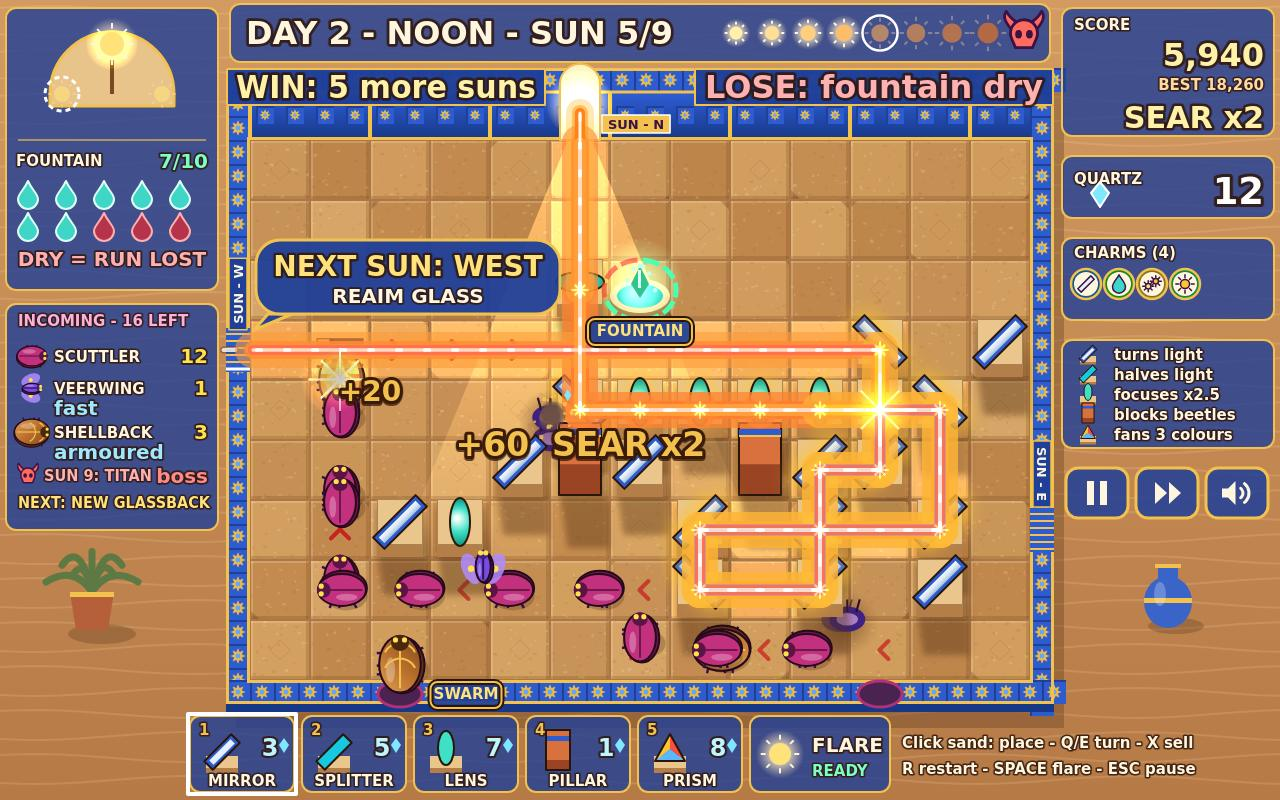
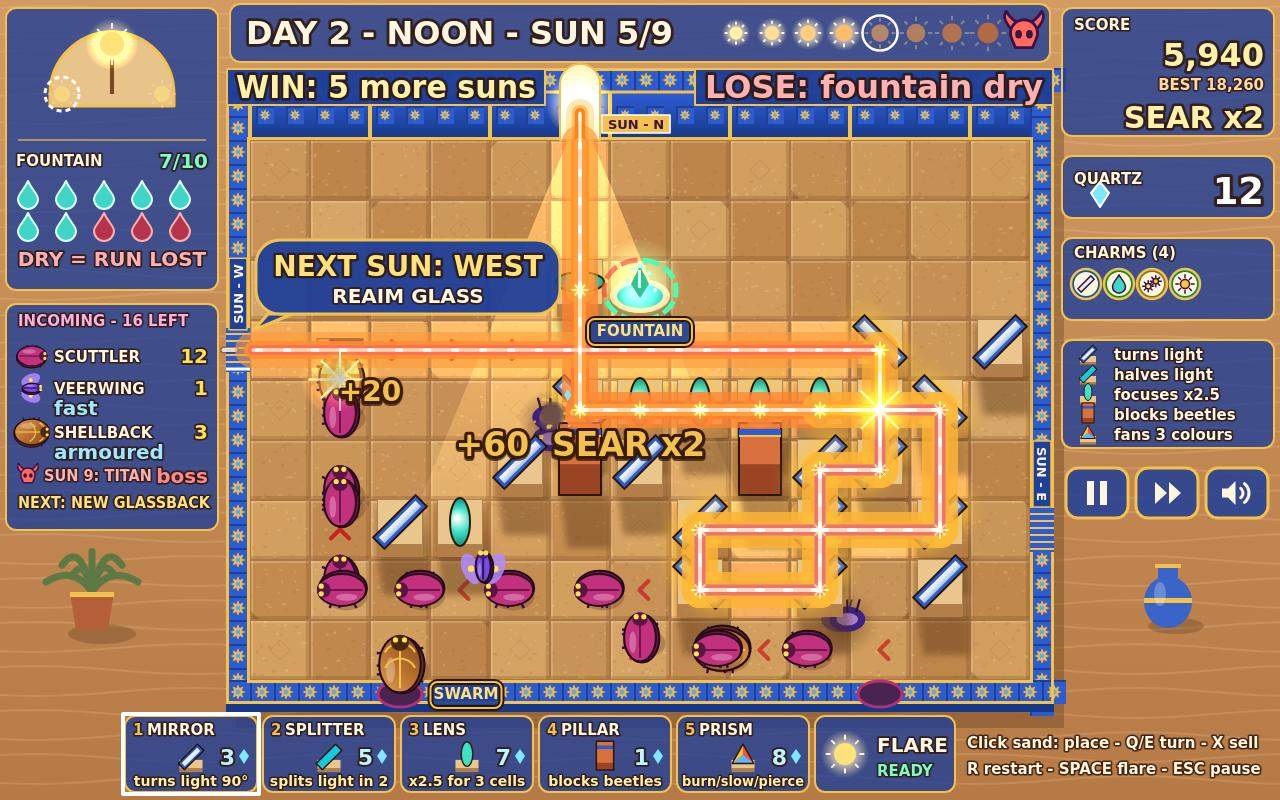
Build bar: each card shows hotkey, name, cost and a one-line effect (lens from this run's beam mods); legend kept

Changed region(s): [[0.0938, 0.875, 1.0, 1.0]]

diff --git a/game/src/render/hud.js b/game/src/render/hud.js
@@ -27,7 +27,7 @@ const INCOMING_H = 226;
 const LEFT_X = 6;
 const RIGHT_X = VIEW_W - PANEL_W - 6;
 
-const HOTBAR = { y: 716, w: 104, h: 76, gap: 8 };
+const HOTBAR = { y: 716, w: 132, h: 76, gap: 6 };
 const HOTBAR_X = 640 - (PIECE_ORDER.length * (HOTBAR.w + HOTBAR.gap) + 150 + 190) / 2;
 
 /** The pause, speed and sound buttons under the right panels: icons only (Esc / F / M on the keyboard). */
@@ -432,7 +432,7 @@ export function hudTextBoxes() {
     { text: 'sun bar', x0: top + 4, y0: 4, x1: top + BOARD_W + WALL * 2 - 4, y1: 62 },
     { text: 'win/lose banner', x0: top, y0: 68, x1: top + BOARD_W + WALL * 2, y1: 106 },
     { text: 'right panels and buttons', x0: RIGHT_X, y0: 8, x1: RIGHT_X + PANEL_W, y1: HUD_BUTTONS[0].y + HUD_BUTTONS[0].h },
-    { text: 'hotbar and keys', x0: HOTBAR_X, y0: HOTBAR.y, x1: 1200, y1: HOTBAR.y + HOTBAR.h },
+    { text: 'hotbar and keys', x0: HOTBAR_X, y0: HOTBAR.y, x1: 1270, y1: HOTBAR.y + HOTBAR.h },
   ];
 }
 
@@ -661,6 +661,16 @@ function drawHudButtons(ctx, ui) {
   }
 }
 
+/** A build card's one-line effect, true to beams.js (the lens with this run's focus and reach). */
+function cardEffect(run, type) {
+  const mods = beamModsFor(run.boons);
+  if (type === 'mirror') return ['turns light 90°', 'turns light'];
+  if (type === 'splitter') return ['splits light in two', 'splits light in 2', 'splits in two'];
+  if (type === 'lens') return [`x${mods.lensMult} for ${mods.lensReach} cells`, `focus x${mods.lensMult}`];
+  if (type === 'pillar') return ['blocks beetles', 'blocks'];
+  return ['burn, slow, pierce', 'burn/slow/pierce', 'fans 3 colours'];
+}
+
 function drawHotbar(ctx, run, ui) {
   PIECE_ORDER.forEach((type, i) => {
     const x = HOTBAR_X + i * (HOTBAR.w + HOTBAR.gap);
@@ -675,18 +685,26 @@ function drawHotbar(ctx, run, ui) {
       ctx.lineWidth = 4;
       ctx.strokeRect(x - 2, HOTBAR.y - 2, HOTBAR.w + 4, HOTBAR.h + 4);
     }
-    drawPieceIcon(ctx, type, x + 32, HOTBAR.y + 36);
-    text(ctx, String(i + 1), x + 9, HOTBAR.y + 19, 15, GOLD, 'left', 900);
-    text(ctx, PIECES[type].name, x + HOTBAR.w / 2, HOTBAR.y + 70, 15, INK, 'center', 700);
-    text(ctx, unlocked ? `${cost}` : 'DAY 2', x + (unlocked ? 80 : 72), HOTBAR.y + 40, unlocked ? 24 : 14, afford ? '#BDF4FF' : '#FF8A8A', 'center', 900);
-    ctx.fillStyle = unlocked ? '#7FE8FF' : 'rgba(0,0,0,0)';
-    ctx.beginPath();
-    ctx.moveTo(x + 94, HOTBAR.y + 22);
-    ctx.lineTo(x + 99, HOTBAR.y + 29);
-    ctx.lineTo(x + 94, HOTBAR.y + 37);
-    ctx.lineTo(x + 89, HOTBAR.y + 29);
-    ctx.closePath();
-    ctx.fill();
+    // Card: hotkey and name on top, the piece with its cost (quartz) beside it, what it does underneath.
+    text(ctx, String(i + 1), x + 8, HOTBAR.y + 19, 15, GOLD, 'left', 900);
+    text(ctx, PIECES[type].name, x + 22, HOTBAR.y + 19, 15, INK, 'left', 900);
+    text(ctx, unlocked ? `${cost}` : 'DAY 2', x + HOTBAR.w - (unlocked ? 22 : 8), HOTBAR.y + 49, unlocked ? 22 : 14, afford ? '#BDF4FF' : '#FF8A8A', 'right', 900);
+    if (unlocked) {
+      ctx.fillStyle = '#7FE8FF';
+      ctx.beginPath();
+      ctx.moveTo(x + HOTBAR.w - 13, HOTBAR.y + 33);
+      ctx.lineTo(x + HOTBAR.w - 8, HOTBAR.y + 40);
+      ctx.lineTo(x + HOTBAR.w - 13, HOTBAR.y + 48);
+      ctx.lineTo(x + HOTBAR.w - 18, HOTBAR.y + 40);
+      ctx.closePath();
+      ctx.fill();
+    }
+    ctx.save();
+    ctx.translate(x + HOTBAR.w / 2, HOTBAR.y + 41);
+    ctx.scale(0.72, 0.72);
+    drawPieceIcon(ctx, type, 0, 0);
+    ctx.restore();
+    fitLine(ctx, cardEffect(run, type), x + HOTBAR.w / 2, HOTBAR.y + 70, HOTBAR.w - 10, 14, '#FFF2A8', 'center');
     ctx.globalAlpha = 1;
   });
   const fx = HOTBAR_X + PIECE_ORDER.length * (HOTBAR.w + HOTBAR.gap);

diff --git a/NOTES.md b/NOTES.md
@@ -384,6 +384,11 @@
   min) and blurred, still thrown away from the live sun (sun.shadowVectorFor); lit cells get a warm
   wash under the beams (board.drawLitFloor). Cover mean luminance 0.51 (gate 0.45), still warm.
 
+- Item 2, build bar: 132 px cards (bar re-centred, key line still fits): hotkey + name on top, the
+  piece with its quartz cost beside it, and a one-line effect underneath, true to beams.js (mirror
+  `turns light 90°`, splitter `splits light in 2`, lens `x2.5 for 3 cells` from this run's beam mods,
+  pillar `blocks beetles`, prism `burn/slow/pierce`). The right-hand GLASS legend stays.
+
 ## Next
 - READY FOR A/B (01:00 UTC): bold beams + the three cues on top of 61673e1 (FEATS, GLASS legend,
   INCOMING tags, HUD buttons, SUNSTONE chip, title rules table kept). Verified on the final state:
